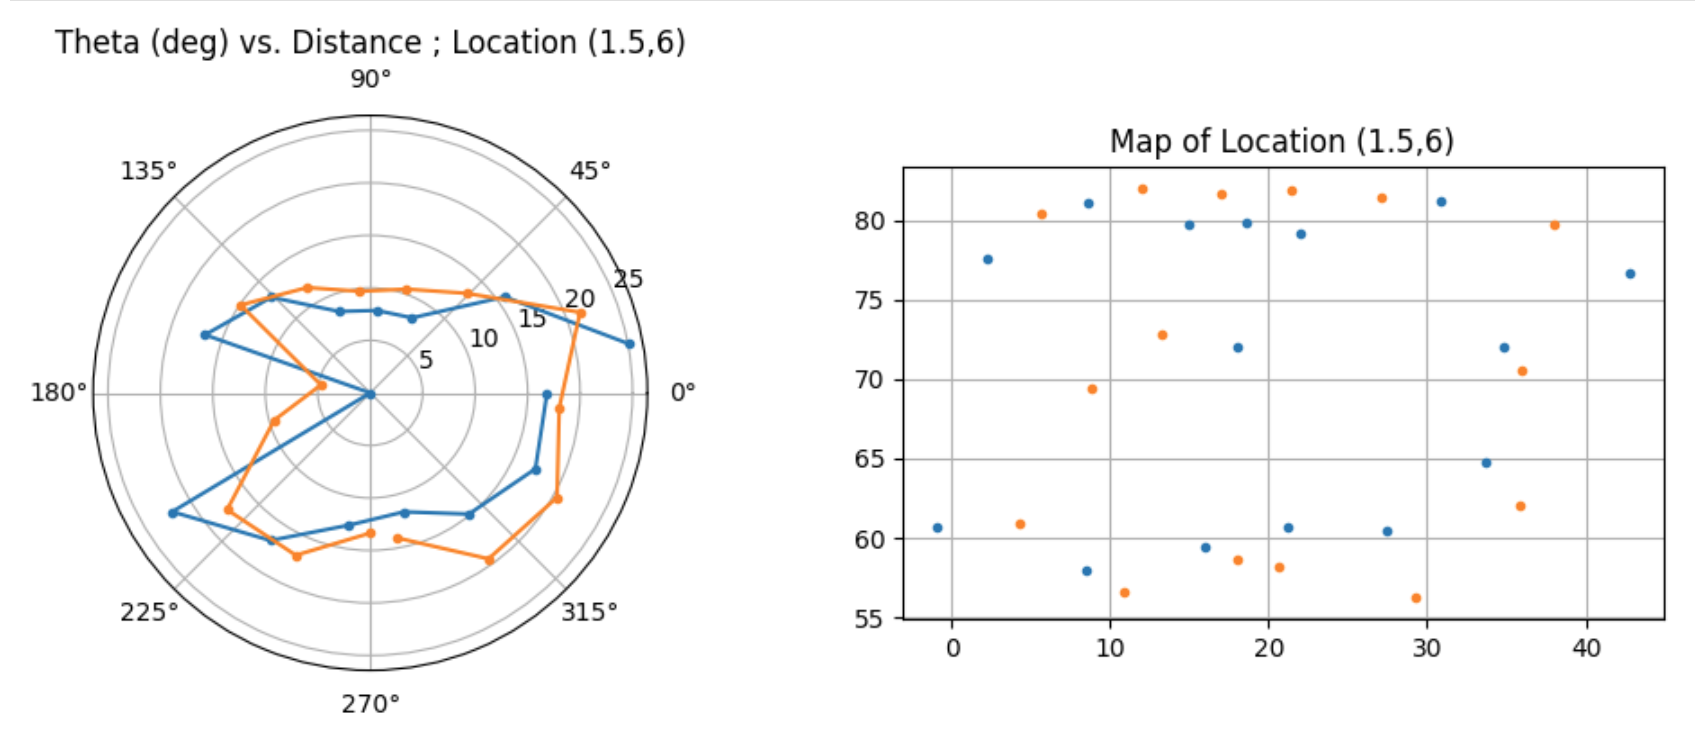
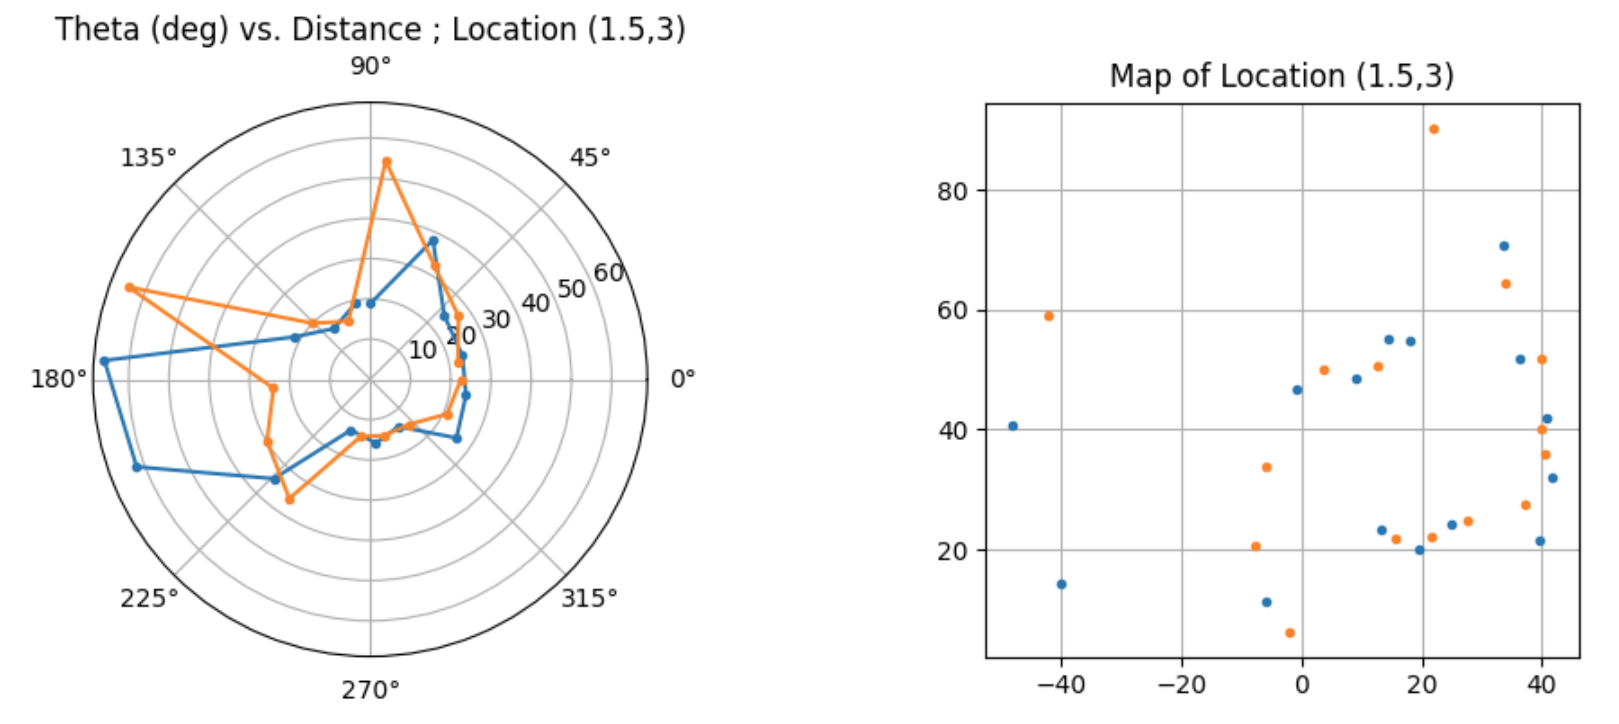
lab9 3

diff --git a/Labs/lab09.html b/Labs/lab09.html
@@ -58,7 +58,7 @@
                 <p class="text-muted mb-3">
                   The goal of this lab was to map a static room so that the map could later be used for localization and navigation.
                   Since I completed this lab at home instead of in the lab space, I used my own measured scan locations rather than the predetermined class coordinates.
-                  I placed the robot at the points <code>(0,0)</code>, <code>(1.5,6)</code>, <code>(-0.75,4.5)</code>, and <code>(-2.25,3.75)</code>,
+                  I placed the robot at the points <code>(0,0)</code>, <code>(1.5,3)</code>, <code>(2.25,6)</code>, and <code>(-2.25,3)</code>,
                   then rotated it in place and collected distance measurements with my ToF sensors while also logging the robot orientation from the IMU.
                 </p>
                 <p class="text-muted mb-0">
@@ -302,7 +302,7 @@ def postProcess(df, x0, y0):
                 <p class="text-muted mb-3">
                   For each of my home scan locations, I plotted the front and side ToF measurements in polar form first. This helped me check whether
                   the scan shape looked reasonable before combining it with the rest of the room data. The locations I used were
-                  <code>(0,0)</code>, <code>(1.5,6)</code>, <code>(-0.75,4.5)</code>, and <code>(-2.25,3.75)</code>.
+                  <code>(0,0)</code>, <code>(1.5,3)</code>, <code>(2.25,6)</code>, and <code>(-2.25,3)</code>.
                 </p>
                 <p class="text-muted mb-3">
                   In general, the scans matched what I expected. The major room boundaries appeared where they should,
@@ -320,20 +320,20 @@ def postProcess(df, x0, y0):
                   </div>
                   <div class="col-lg-6">
                     <figure class="bg-light rounded-4 p-3 mb-0 text-center">
-                      <h6 class="fw-semibold mb-2">Polar Plot: Location (1.5,6)</h6>
+                      <h6 class="fw-semibold mb-2">Polar Plot: Location (1.5,3)</h6>
                       <img src="../assets/lab9/1.5.png" alt="Polar plot for mapping location 1.5 6" class="img-fluid rounded-4" />
                     </figure>
                   </div>
                   <div class="col-lg-6">
                     <figure class="bg-light rounded-4 p-3 mb-0 text-center">
-                      <h6 class="fw-semibold mb-2">Polar Plot: Location (-0.75,4.5)</h6>
-                      <img src="../assets/lab9/.75.png" alt="Polar plot for mapping location -0.75 4.5" class="img-fluid rounded-4" />
+                      <h6 class="fw-semibold mb-2">Polar Plot: Location (2.25,6)</h6>
+                      <img src="../assets/lab9/2.25.png" alt="Polar plot for mapping location -0.75 4.5" class="img-fluid rounded-4" />
                     </figure>
                   </div>
                   <div class="col-lg-6">
                     <figure class="bg-light rounded-4 p-3 mb-0 text-center">
-                      <h6 class="fw-semibold mb-2">Polar Plot: Location (-2.25,3.75)</h6>
-                      <img src="../assets/lab9/2.25.png" alt="Polar plot for mapping location -2.25 3.75" class="img-fluid rounded-4" />
+                      <h6 class="fw-semibold mb-2">Polar Plot: Location (-2.25,3)</h6>
+                      <img src="../assets/lab9/-2.25.png" alt="Polar plot for mapping location -2.25 3.75" class="img-fluid rounded-4" />
                     </figure>
                   </div>
                 </div>
@@ -348,7 +348,7 @@ def postProcess(df, x0, y0):
                 <p class="text-muted mb-3">
                   After validating the polar plots, I transformed each scan into the inertial reference frame of the room.
                   This produced point clouds that could be overlaid on one another using the known robot locations from my home setup:
-                  <code>(0,0)</code>, <code>(1.5,6)</code>, <code>(-0.75,4.5)</code>, and <code>(-2.25,3.75)</code>.
+                  <code>(0,0)</code>, <code>(1.5,3)</code>, <code>(2.25,6)</code>, and <code>(-2.25,3)</code>.
                 </p>
                 <p class="text-muted mb-0">
                   Once the scans were merged, the room boundaries became much more clear. At that point I could manually draw the line-based map
